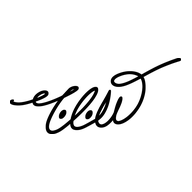
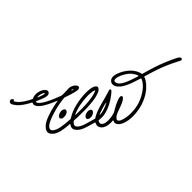
change the image used for open graph

diff --git a/index.html b/index.html
@@ -21,7 +21,7 @@
         <meta property="og:description"
             content="Explore Tamarabrakaemi Waritimi's professional CV, including frontend development skills, experience, education, and projects.">
         <meta property="og:url" content="https://7amarah.github.io/basic-html-website/">
-        <meta property="og:image" content="https://7amarah.github.io/basic-html-website/social-preview.jpg">
+        <meta property="og:image" content="https://7amarah.github.io/basic-html-website/og-image.png">
         <meta property="og:image:alt" content="Tamarabrakaemi Waritimi – Junior Frontend Developer">
         <meta property="og:image:type" content="image/jpeg">
         <meta property="og:image:width" content="1200">
@@ -39,7 +39,7 @@
         <meta name="twitter:title" content="Tamarabrakaemi Waritimi | Frontend Developer">
         <meta name="twitter:description"
             content="Explore Tamarabrakaemi Waritimi's professional CV, including frontend development skills, experience, education, and projects.">
-        <meta name="twitter:image" content="https://7amarah.github.io/basic-html-website/social-preview.jpg">
+        <meta name="twitter:image" content="https://7amarah.github.io/basic-html-website/og-image.png">
         <meta name="twitter:image:alt" content="Tamarabrakaemi Waritimi – Frontend Developer CV">
 
         <!-- Favicons (Relative paths for static hosting) -->

diff --git a/projects.html b/projects.html
@@ -20,7 +20,7 @@
     <meta property="og:description"
         content="Browse frontend projects by Tamarabrakaemi Waritimi: HTML Only Portfolio, Calculator, Quiz App, Countdown Timer and Product Upcoming Page.">
     <meta property="og:url" content="https://7amarah.github.io/basic-html-website/projects.html">
-    <meta property="og:image" content="https://7amarah.github.io/basic-html-website/social-preview.jpg">
+    <meta property="og:image" content="https://7amarah.github.io/basic-html-website/og-image.png">
     <meta property="og:image:alt" content="Tamarabrakaemi Waritimi – Frontend Developer">
     <meta property="og:image:type" content="image/jpeg">
     <meta property="og:image:width" content="1200">
@@ -33,7 +33,7 @@
     <meta name="twitter:title" content="Projects | Tamarabrakaemi Waritimi">
     <meta name="twitter:description"
         content="Browse frontend projects by Tamarabrakaemi Waritimi: HTML Only Portfolio, Calculator, Quiz App, Countdown Timer and Product Upcoming Page.">
-    <meta name="twitter:image" content="https://7amarah.github.io/basic-html-website/social-preview.jpg">
+    <meta name="twitter:image" content="https://7amarah.github.io/basic-html-website/og-image.png">
     <meta name="twitter:image:alt" content="Tamarabrakaemi Waritimi – Frontend Developer">
 
     <!-- Favicons -->

diff --git a/articles.html b/articles.html
@@ -20,7 +20,7 @@
     <meta property="og:description"
         content="Read articles by Tamarabrakaemi Waritimi on semantic HTML, accessibility, forms and learning web development.">
     <meta property="og:url" content="https://7amarah.github.io/basic-html-website/articles.html">
-    <meta property="og:image" content="https://7amarah.github.io/basic-html-website/social-preview.jpg">
+    <meta property="og:image" content="https://7amarah.github.io/basic-html-website/og-image.png">
     <meta property="og:image:alt" content="Tamarabrakaemi Waritimi – Frontend Developer">
     <meta property="og:image:type" content="image/jpeg">
     <meta property="og:image:width" content="1200">
@@ -33,7 +33,7 @@
     <meta name="twitter:title" content="Articles | Tamarabrakaemi Waritimi">
     <meta name="twitter:description"
         content="Read articles by Tamarabrakaemi Waritimi on semantic HTML, accessibility, forms and learning web development.">
-    <meta name="twitter:image" content="https://7amarah.github.io/basic-html-website/social-preview.jpg">
+    <meta name="twitter:image" content="https://7amarah.github.io/basic-html-website/og-image.png">
     <meta name="twitter:image:alt" content="Tamarabrakaemi Waritimi – Frontend Developer">
 
     <!-- Favicons -->

diff --git a/contact.html b/contact.html
@@ -20,7 +20,7 @@
     <meta property="og:description"
         content="Get in touch with Tamarabrakaemi Waritimi, a frontend developer in Lagos, Nigeria.">
     <meta property="og:url" content="https://7amarah.github.io/basic-html-website/contact.html">
-    <meta property="og:image" content="https://7amarah.github.io/basic-html-website/social-preview.jpg">
+    <meta property="og:image" content="https://7amarah.github.io/basic-html-website/og-image.png">
     <meta property="og:image:alt" content="Tamarabrakaemi Waritimi – Frontend Developer">
     <meta property="og:image:type" content="image/jpeg">
     <meta property="og:image:width" content="1200">
@@ -33,7 +33,7 @@
     <meta name="twitter:title" content="Contact | Tamarabrakaemi Waritimi">
     <meta name="twitter:description"
         content="Get in touch with Tamarabrakaemi Waritimi, a frontend developer in Lagos, Nigeria.">
-    <meta name="twitter:image" content="https://7amarah.github.io/basic-html-website/social-preview.jpg">
+    <meta name="twitter:image" content="https://7amarah.github.io/basic-html-website/og-image.png">
     <meta name="twitter:image:alt" content="Tamarabrakaemi Waritimi – Frontend Developer">
 
     <!-- Favicons -->
